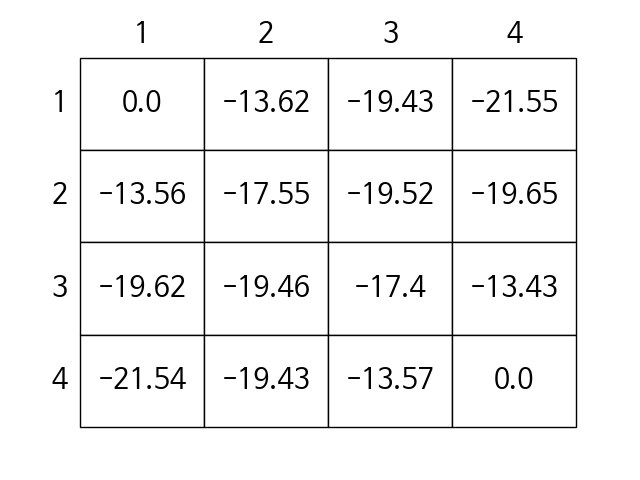
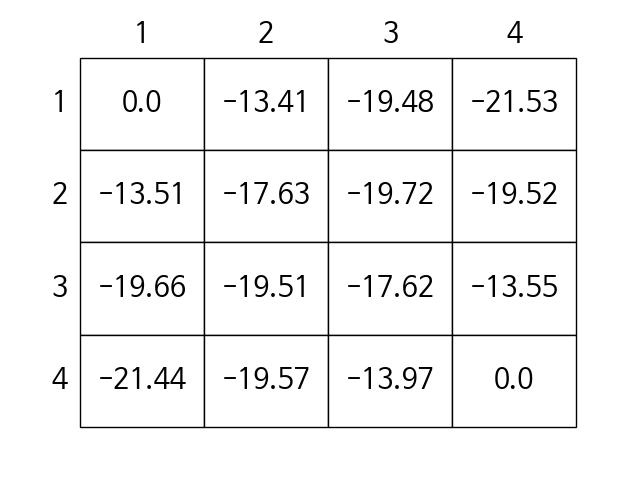
...

diff --git a/utils/util.py b/utils/util.py
@@ -27,12 +27,24 @@ def draw_grid_world_state_values_image(state_values, filename, GRID_HEIGHT, GRID
     # 렌더링 할 이미지에 표 셀과 해당 값 추가
     for i in range(GRID_HEIGHT):
         for j in range(GRID_WIDTH):
-            table.add_cell(i, j, width, height, text=state_values[i][j], loc='center', facecolor='white')
+            table.add_cell(
+                i, j, width, height,
+                text=np.round(state_values[i][j], decimals=2),
+                loc='center', facecolor='white'
+            )
 
     # 행, 열 라벨 추가
     for i in range(len(state_values)):
-        table.add_cell(i, -1, width, height, text=i+1, loc='right', edgecolor='none', facecolor='none')
-        table.add_cell(-1, i, width, height/2, text=i+1, loc='center', edgecolor='none', facecolor='none')
+        table.add_cell(
+            i, -1, width, height,
+            text=i+1,
+            loc='right', edgecolor='none', facecolor='none'
+        )
+        table.add_cell(
+            -1, i, width, height/2,
+            text=i+1,
+            loc='center', edgecolor='none', facecolor='none'
+        )
 
     for key, cell in table.get_celld().items():
          cell.get_text().set_fontsize(20)
@@ -50,7 +62,11 @@ def draw_grid_world_action_values_image(action_values, filename, GRID_HEIGHT, GR
         for j in range(GRID_WIDTH):
             str_values = []
             for action in range(NUM_ACTIONS):
-                str_values.append("{0} ({1}): {2:.2f}".format(ACTION_SYMBOLS[action], action, action_values[i, j, action]))
+                str_values.append("{0} ({1}): {2:.2f}".format(
+                    ACTION_SYMBOLS[action],
+                    action,
+                    np.round(action_values[i, j, action], decimals=2)
+                ))
             action_str_values[i].append("\n".join(str_values))
 
     # 축 표시 제거, 크기 조절 등 이미지 그리기 이전 설정 작업
@@ -64,6 +80,54 @@ def draw_grid_world_action_values_image(action_values, filename, GRID_HEIGHT, GR
     # 렌더링 할 이미지에 표 셀과 해당 값 추가
     for i in range(GRID_HEIGHT):
         for j in range(GRID_WIDTH):
+            table.add_cell(
+                i, j, width, height,
+                text=action_str_values[i][j],
+                loc='center', facecolor='white'
+            )
+
+    # 행, 열 라벨 추가
+    for i in range(len(action_str_values)):
+        table.add_cell(i, -1, width, height, text=i+1, loc='right', edgecolor='none', facecolor='none')
+        table.add_cell(-1, i, width, height/2, text=i+1, loc='center', edgecolor='none', facecolor='none')
+
+    for key, cell in table.get_celld().items():
+         cell.get_text().set_fontsize(10)
+
+    ax.add_table(table)
+
+    plt.savefig(filename)
+    plt.close()
+
+
+def draw_grid_world_optimal_policy_image(policy, filename, GRID_HEIGHT, GRID_WIDTH, ACTION_SYMBOLS, TERMINAL_STATES=None):
+    action_str_values = []
+    for i in range(GRID_HEIGHT):
+        action_str_values.append([])
+        for j in range(GRID_WIDTH):
+            if TERMINAL_STATES and (i, j) in TERMINAL_STATES:
+                continue
+            str_values = []
+            for action in policy[(i, j)]:
+                str_values.append("{0} ({1})".format(
+                    ACTION_SYMBOLS[action],
+                    np.round(action, decimals=2)
+                ))
+            action_str_values[i].append("\n".join(str_values))
+
+    # 축 표시 제거, 크기 조절 등 이미지 그리기 이전 설정 작업
+    fig, ax = plt.subplots()
+    ax.set_axis_off()
+    table = Table(ax, bbox=[0, 0, 1, 1])
+
+    nrows, ncols = GRID_HEIGHT, GRID_WIDTH
+    width, height = 1.0 / ncols, 1.0 / nrows
+
+    # 렌더링 할 이미지에 표 셀과 해당 값 추가
+    for i in range(GRID_HEIGHT):
+        for j in range(GRID_WIDTH):
+            if TERMINAL_STATES and (i, j) in TERMINAL_STATES:
+                continue
             table.add_cell(i, j, width, height, text=action_str_values[i][j], loc='center', facecolor='white')
 
     # 행, 열 라벨 추가
@@ -88,8 +152,12 @@ def draw_grid_world_policy_image(policy, filename, GRID_HEIGHT, GRID_WIDTH, ACTI
             if TERMINAL_STATES and (i, j) in TERMINAL_STATES:
                 continue
             str_values = []
-            for action in policy[(i, j)]:
-                str_values.append("{0} ({1})".format(ACTION_SYMBOLS[action], action))
+            actions, probs = policy[(i, j)]
+            for action in actions:
+                str_values.append("{0} ({1})".format(
+                    ACTION_SYMBOLS[action],
+                    np.round(probs[action], decimals=2)
+                ))
             action_str_values[i].append("\n".join(str_values))
 
     # 축 표시 제거, 크기 조절 등 이미지 그리기 이전 설정 작업

diff --git a/basic/practice_4/grid_world_mc_exploring_start_control.py b/basic/practice_4/grid_world_mc_exploring_start_control.py
@@ -2,6 +2,7 @@
 import numpy as np
 from basic.practice_1.gridworld import GridWorld
 from utils.util import softmax, draw_grid_world_policy_image
+import random
 
 GRID_HEIGHT = 4
 GRID_WIDTH = 4
@@ -10,6 +11,15 @@ DISCOUNT_RATE = 1.0
 THETA_1 = 0.0001
 THETA_2 = 0.0001
 MAX_EPISODES = 300
+
+
+def get_exploring_start_state():
+    while True:
+        i = random.randrange(GRID_HEIGHT)
+        j = random.randrange(GRID_WIDTH)
+        if (i, j) not in TERMINAL_STATES:
+            break
+    return (i, j)
 
 
 class MonteCarloControl:
@@ -52,7 +62,8 @@ class MonteCarloControl:
         episode = []
         visited_state_actions = []
 
-        state = self.env.reset() # exploring start
+        state = get_exploring_start_state() # exploring start
+        self.env.moveto(state)
 
         done = False
         trajectory_size = 0
@@ -95,7 +106,7 @@ class MonteCarloControl:
                 if (i, j) in TERMINAL_STATES:
                     actions = []
                     action_probs = []
-                    for action in range(self.env.action_space.num_actions):
+                    for action in range(self.env.action_space.NUM_ACTIONS):
                         actions.append(action)
                         action_probs.append(0.25)
                     new_policy[(i, j)] = (actions, action_probs)
@@ -167,16 +178,6 @@ def main():
         GRID_HEIGHT, GRID_WIDTH,
         env.action_space.ACTION_SYMBOLS
     )
-
-    # with np.printoptions(precision=2, suppress=True):
-    #     for i in range(GRID_HEIGHT):
-    #         for j in range(GRID_WIDTH):
-    #             print(
-    #                 i, j,
-    #                 ": UP, DOWN, LEFT, RIGHT",
-    #                 MC.policy[(i, j)][1]
-    #             )
-    #         print()
 
 
 if __name__ == "__main__":

diff --git a/basic/practice_3/value_iteration.py b/basic/practice_3/value_iteration.py
@@ -1,6 +1,6 @@
 import numpy as np
 from basic.practice_1.gridworld import GridWorld
-from utils.util import softmax, draw_grid_world_action_values_image, draw_grid_world_policy_image, \
+from utils.util import softmax, draw_grid_world_action_values_image, draw_grid_world_optimal_policy_image, \
     draw_grid_world_state_values_image
 
 GRID_HEIGHT = 4
@@ -147,7 +147,7 @@ if __name__ == '__main__':
     print(VI.state_values)
 
     draw_grid_world_state_values_image(
-        np.round(VI.state_values, decimals=2),
+        VI.state_values,
         'images/grid_world_vi_optimal_state_values.png',
         GRID_HEIGHT, GRID_WIDTH
     )
@@ -160,7 +160,7 @@ if __name__ == '__main__':
         env.action_space.ACTION_SYMBOLS
     )
 
-    draw_grid_world_policy_image(
+    draw_grid_world_optimal_policy_image(
         VI.calculate_optimal_policy(),
         "images/grid_world_vi_optimal_policy.png",
         GRID_HEIGHT, GRID_WIDTH, env.action_space.ACTION_SYMBOLS

diff --git a/basic/practice_3/policy_iteration.py b/basic/practice_3/policy_iteration.py
@@ -2,7 +2,7 @@ import numpy as np
 import os
 
 from basic.practice_1.gridworld import GridWorld
-from utils.util import softmax, draw_grid_world_policy_image, draw_grid_world_action_values_image, \
+from utils.util import softmax, draw_grid_world_optimal_policy_image, draw_grid_world_action_values_image, \
     draw_grid_world_state_values_image
 
 GRID_HEIGHT = 4
@@ -178,7 +178,7 @@ def main():
     print(PI.state_values)
 
     draw_grid_world_state_values_image(
-        np.round(PI.state_values, decimals=2),
+        PI.state_values,
         'images/grid_world_pi_optimal_state_values.png',
         GRID_HEIGHT, GRID_WIDTH
     )
@@ -191,7 +191,7 @@ def main():
         env.action_space.ACTION_SYMBOLS
     )
 
-    draw_grid_world_policy_image(
+    draw_grid_world_optimal_policy_image(
         PI.calculate_optimal_policy(),
         "images/grid_world_pi_optimal_policy.png",
         GRID_HEIGHT, GRID_WIDTH, env.action_space.ACTION_SYMBOLS

diff --git a/basic/practice_2/optimal_action_values_and_optimal_policy.py b/basic/practice_2/optimal_action_values_and_optimal_policy.py
@@ -4,7 +4,7 @@ import os
 from basic.practice_1.gridworld import GridWorld
 
 # 이미지 저장 경로 확인 및 생성
-from utils.util import draw_grid_world_action_values_image, draw_grid_world_policy_image
+from utils.util import draw_grid_world_action_values_image, draw_grid_world_optimal_policy_image
 
 GRID_HEIGHT = 5
 GRID_WIDTH = 5
@@ -83,7 +83,7 @@ def main():
     print()
 
     optimal_policy = calculate_optimal_policy(optimal_action_values)
-    draw_grid_world_policy_image(
+    draw_grid_world_optimal_policy_image(
         optimal_policy,
         "images/grid_world_optimal_policy.png",
         GRID_HEIGHT, GRID_WIDTH,

diff --git a/basic/practice_4/grid_world_mc_soft_policy_control.py b/basic/practice_4/grid_world_mc_soft_policy_control.py
@@ -1,8 +1,7 @@
 # 사용 패키지 임포트
 import numpy as np
-import random
 from basic.practice_1.gridworld import GridWorld
-from utils.util import softmax, draw_grid_world_policy_image
+from utils.util import draw_grid_world_policy_image
 
 GRID_HEIGHT = 4
 GRID_WIDTH = 4
@@ -169,7 +168,7 @@ def main():
     env = GridWorld(
         height=GRID_HEIGHT,
         width=GRID_WIDTH,
-        start_state=None,       # exploring start
+        start_state=(0, 1),       # exploring start
         terminal_states=TERMINAL_STATES,
         transition_reward=-1.0,
         terminal_reward=-1.0,

diff --git a/basic/practice_4/grid_world_mc_state_value_prediction.py b/basic/practice_4/grid_world_mc_state_value_prediction.py
@@ -125,7 +125,7 @@ def main():
         print()
 
     draw_grid_world_state_values_image(
-        np.round(state_values, decimals=2),
+        state_values,
         'images/grid_world_mc_state_values_first_visit.png',
         GRID_HEIGHT, GRID_WIDTH
     )
@@ -139,7 +139,7 @@ def main():
         print()
 
     draw_grid_world_state_values_image(
-        np.round(state_values, decimals=2),
+        state_values,
         'images/grid_world_mc_state_values_every_visit.png',
         GRID_HEIGHT, GRID_WIDTH
     )

diff --git a/basic/practice_2/optimal_state_values.py b/basic/practice_2/optimal_state_values.py
@@ -66,7 +66,7 @@ def main():
     optimal_state_values = calculate_grid_world_optimal_state_values(env)
 
     draw_grid_world_state_values_image(
-        np.round(optimal_state_values, decimals=2), 'images/grid_world_optimal_state_values.png', GRID_HEIGHT, GRID_WIDTH
+        optimal_state_values, 'images/grid_world_optimal_state_values.png', GRID_HEIGHT, GRID_WIDTH
     )
 
     with np.printoptions(precision=2, suppress=True):

diff --git a/basic/practice_2/state_values.py b/basic/practice_2/state_values.py
@@ -70,7 +70,7 @@ def main():
     state_values = calculate_grid_world_state_values(env)
 
     draw_grid_world_state_values_image(
-        np.round(state_values, decimals=2), 'images/grid_world_state_values.png', GRID_HEIGHT, GRID_WIDTH
+        state_values, 'images/grid_world_state_values.png', GRID_HEIGHT, GRID_WIDTH
     )
 
     with np.printoptions(precision=2, suppress=True):
